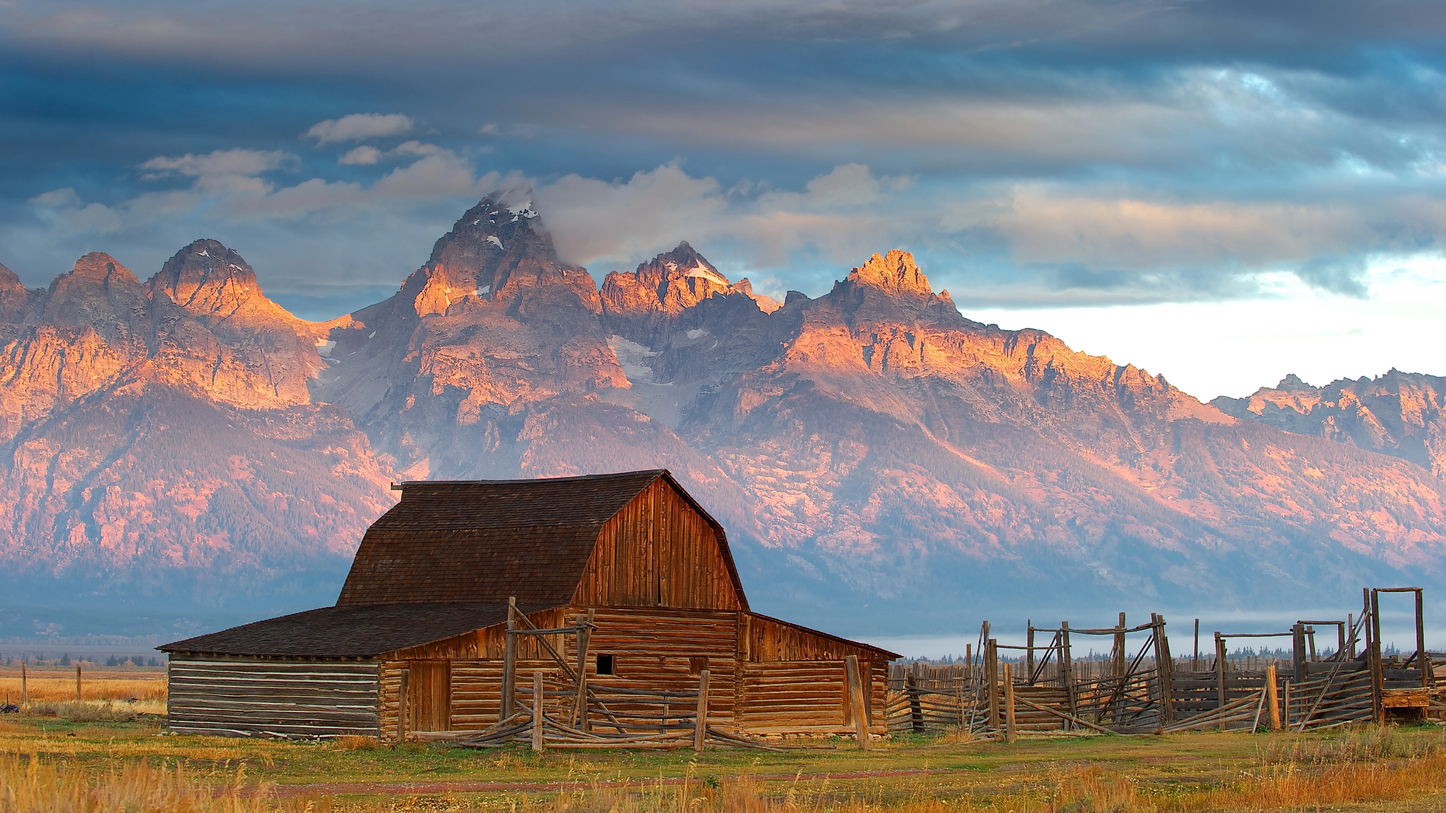
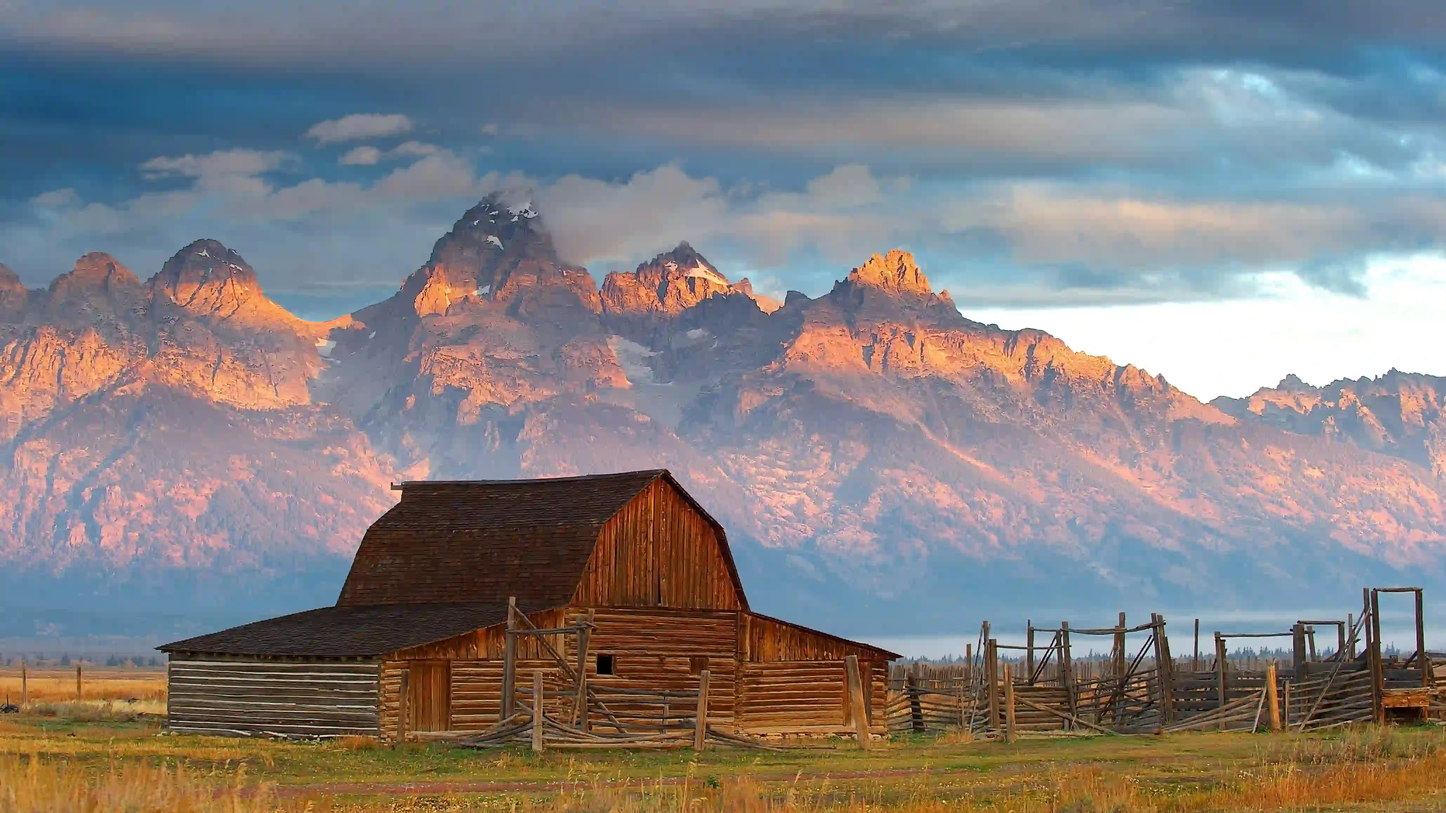
Added meta tags for better SEO. Reduced Jackson_Hole size to improve LCP load time on mobile.

diff --git a/app/[city]/page.tsx b/app/[city]/page.tsx
@@ -1,14 +1,49 @@
 import cities from "@/const/cities.json";
 import { Hero, Services, FAQ, CTA } from "@/components/subpages";
 import { notFound } from "next/navigation";
+import { Metadata } from "next";
 
 interface Params {
   params: { city: string }
 }
 
+export async function generateMetadata({ params }: Params): Promise<Metadata> {
+  const cityData = cities.find((c) => c.slug === params.city)
+
+  if (!cityData) {
+    return {
+      title: "Bat Removal Services | Jackson Hole Bat Removal",
+      description:
+        "Safe, humane, and effective bat removal and exclusion services in Wyoming. Call our experts today.",
+    }
+  }
+
+  return {
+    title: `Bat Removal in ${cityData.name}, ${cityData.state} | Jackson Hole Bat Removal`,
+    description: cityData.description,
+    keywords: [
+      "bat removal",
+      "bat exclusion",
+      "guano cleanup",
+      `bat control in ${cityData.name}`,
+      `bat removal in ${cityData.name}`,
+      `${cityData.state} wildlife removal`,
+    ],
+    openGraph: {
+      title: `Bat Removal in ${cityData.name}, ${cityData.state}`,
+      description: cityData.description,
+      url: `https://www.jacksonholebatremoval.com/${cityData.slug}`,
+      type: "website",
+    },
+    alternates: {
+      canonical: `https://www.jacksonholebatremoval.com/${cityData.slug}`,
+    },
+  }
+}
+
 export default async function City({ params }: Params) {
-  const { city } = await params
-  const cityData = cities.find((c) => c.slug === city)
+  // const { city } = await params
+  const cityData = cities.find((c) => c.slug === params.city)
 
   if (!cityData) {
     notFound()

diff --git a/app/page.tsx b/app/page.tsx
@@ -1,7 +1,31 @@
 import Link from "next/link"
-import Image from "next/image"
+// import Image from "next/image"
 import cities from "../const/cities.json"
 import { Hero, Services, FAQ, CTA } from "../components/subpages"
+import { Metadata } from "next"
+
+export const metadata: Metadata = {
+  title: "Jackson Hole Bat Removal | Professional Bat Control Services",
+  description:
+    "Safe, humane, and effective bat removal services in Jackson Hole, Wyoming. We specialize in bat exclusion, guano cleanup, and long-term prevention.",
+  keywords: [
+    "bat removal Jackson Hole",
+    "bat exclusion",
+    "guano cleanup",
+    "Wyoming wildlife control",
+    "bat control services",
+  ],
+  openGraph: {
+    title: "Jackson Hole Bat Removal | Professional Bat Control Services",
+    description:
+      "Trusted bat removal and exclusion services in Jackson Hole, Wyoming. Call our experts today.",
+    url: "https://www.jacksonholebatremoval.com",
+    type: "website",
+  },
+  alternates: {
+    canonical: "https://www.jacksonholebatremoval.com",
+  },
+}
 
 export default function Home() {
   // Use Jackson Hole as the "main city" for homepage

diff --git a/components/subpages/Hero.tsx b/components/subpages/Hero.tsx
@@ -10,12 +10,15 @@ type City = {
 export default function Hero({ city }: { city: City }) {
   return (
     <section className="relative h-[70vh] flex items-center justify-center text-white">
-      {/* <img
-        src="/jackson-hole-mountains.jpg"
-        alt={`Scenic view of ${city.name}, ${city.state}`}
+      <Image 
+        src="/images/Jackson_hole.webp" 
+        alt={`Scenic view of ${city.name}, ${city.state}`} 
+        fill 
+        priority
+        sizes='(max-width: 768px) 100vw, (max-width: 1200px) 100vw, 100vw' 
         className="absolute inset-0 w-full h-full object-cover"
-      /> */}
-      <Image src="/images/Jackson_hole.webp" alt={`Scenic view of ${city.name}, ${city.state}`} fill priority className="absolute inset-0 w-full h-full object-cover"></Image>
+      />
+
       <div className="absolute inset-0 bg-black/50"></div>
 
       <div className="relative z-10 text-center max-w-2xl">

diff --git a/app/layout.tsx b/app/layout.tsx
@@ -7,6 +7,23 @@ export const metadata: Metadata = {
   title: "Professional Bat Removal Services | Jackson Hole Bat Removal",
   description:
     "Safe, humane, and effective bat removal services. Get expert bat exclusion, guano cleanup, and prevention to protect your home.",
+    keywords: [
+    "bat removal",
+    "bat exclusion",
+    "guano cleanup",
+    "Wyoming wildlife removal",
+    "Jackson Hole bat control",
+  ],
+  openGraph: {
+    title: "Professional Bat Removal Services | Jackson Hole Bat Removal",
+    description:
+      "Safe, humane, and effective bat removal services across Wyoming.",
+    url: "https://www.jacksonholebatremoval.com",
+    type: "website",
+  },
+  alternates: {
+    canonical: "https://www.jacksonholebatremoval.com",
+  },
 }
 
 export default function RootLayout({
